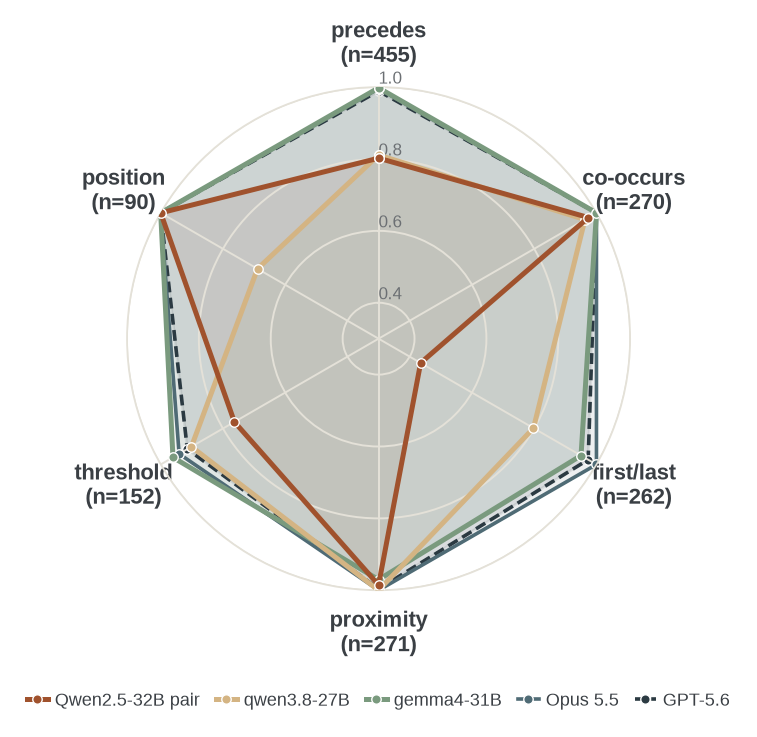
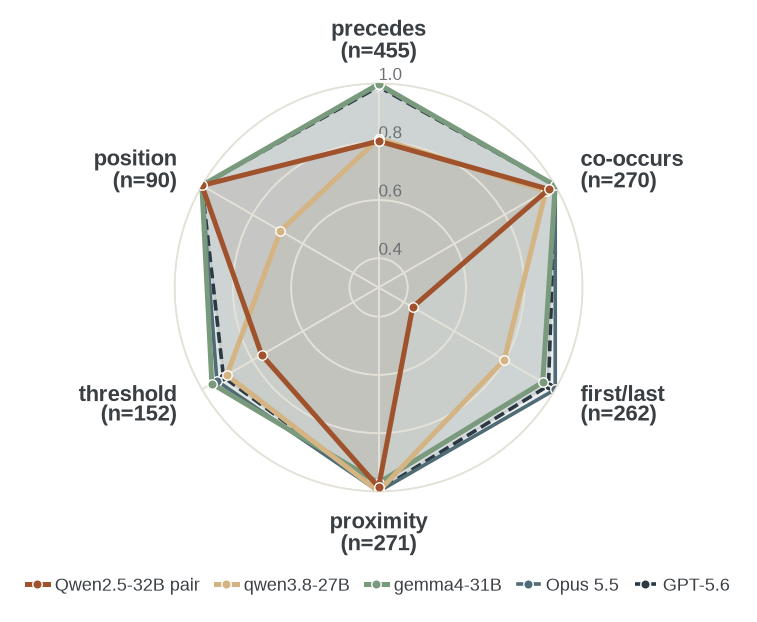
Evidence heatmap to the appendix; family paragraph led by the radar; radar labels outside the ring
The by-family evidence heatmap moves to a new appendix section (app:families)
with its failure-by-failure reading; the main text keeps the radar and the one
evidence finding the verdict hides (gemma4 proximity faithfulness). Radar family
labels are placed by hand outside the outer ring so first/last and threshold no
longer overlap the polygons.

Changed region(s): [[0.0911, 0.0305, 0.9115, 0.8859], [0.0304, 0.9164, 0.9723, 0.9775], [0.4254, 0.4887, 0.4557, 0.5193]]

diff --git a/docs/draft/body.tex b/docs/draft/body.tex
@@ -662,7 +662,7 @@ numbers say how often and how evenly a system reaches the right label; they
 cannot say whether it reached it for the right reason, because a verdict can
 be right on the wrong evidence and wrong on the right evidence. Because every
 stage has gold, four evidence measures are therefore reported with the
-verdict, and they are what Figure~\ref{fig:families} shows. \emph{Plan EM} is exact match on the plan's
+verdict; Appendix~\ref{app:families} breaks them down by claim family. \emph{Plan EM} is exact match on the plan's
 fields. \emph{Evidence F1} is the F1 between the set of reports a system
 placed in an arm's denominator and the gold set, averaged over arms: it
 measures whether the system counted the right reports, whatever it concluded
@@ -780,8 +780,7 @@ answered \emph{insufficient}.}
 \fi
 
 Table~\ref{tab:main} reports every system, the stage ceilings and the
-ablations on the same 1{,}500 claims, and
-Figure~\ref{fig:families} the evidence behind \art{}'s verdicts. The three research
+ablations on the same 1{,}500 claims. The three research
 questions are answered in turn.
 
 \subsection{RQ1: Straight-to-SQL verification and the codebook}
@@ -852,18 +851,6 @@ sizes in parentheses.}
 \label{fig:families-radar}
 \end{figure}
 
-\begin{figure*}[t]
-\centering
-\includegraphics[width=\textwidth]{Figures/families.pdf}
-\caption{The four evidence measures of \art{} on the test set, by claim
-family and model, drawn as error rates so that 0 is perfect in every panel:
-the share of wrongly counted reports ($1-$evidence F1), of right verdicts
-resting on the wrong evidence ($1-$faithfulness), of undecidable claims
-decided (overclaim) and of decidable claims abstained on (underclaim). The
-colour scale is square-root, so small errors remain visible.}
-\label{fig:families}
-\end{figure*}
-
 \paragraph{By claim family.} The families do not fail together
 (Figure~\ref{fig:families-radar}). The 2024 pair's losses sit in two
 families whose rule it cannot carry out: first/last, an argmax over three
@@ -874,18 +861,12 @@ variant whose null is a data-derived rate, gemma4 only on proximity and
 threshold. Threshold is the one family where the frontier models also drop,
 and their planner-alone rows drop by the same amount, so the loss is in
 composing the bar into the plan, not in retrieval. The evidence behind
-these verdicts follows the same map (Figure~\ref{fig:families}): under
-\art{} almost every cell is at or near zero error for gemma4 and the
-frontier models and for most families of the 2026 open models, and overclaim
-stays at a few percent everywhere. The dark cells are the failures that
-remain, and each has a cause the plan exposes: the 2024 pair's
-first/last row, where it retrieves the wrong set and abstains on four claims
-in five rather than decide; qwen3.8's first/last overclaim; gemma4's
-faithfulness on proximity, where a fifth of its right verdicts rest on a
-denominator that admits non-adjacent pairs; and the frontier models'
-threshold underclaim, the H-V5 test-family slip of \S\ref{sec:insufficient}.
-The Straight-to-SQL control on the same families is far lighter: its
-faithfulness falls to 0.06--0.41 on first/last for every open model.
+these verdicts (Appendix~\ref{app:families}) tracks the same map with one
+exception the verdict hides: gemma4 is right on 0.97 of proximity claims, but
+a fifth of those right verdicts rest on a denominator that admits
+non-adjacent pairs. The Straight-to-SQL control is weaker on the same
+families: its faithfulness falls to 0.06--0.41 on first/last for every open
+model.
 
 \begin{figure}[t]
 \centering

diff --git a/scripts/paper_figures.py b/scripts/paper_figures.py
@@ -308,7 +308,7 @@ def fig_family_radar(palette: str = "paper", suffix: str = ""):
     ang_c = np.concatenate([ang, ang[:1]])
     # column-width rendering with the legend on one line below (user 2026-10-21)
     fig, ax = plt.subplots(figsize=(3.4, 3.5), subplot_kw={"projection": "polar"})
-    fig.subplots_adjust(left=0.13, right=0.87, top=0.90, bottom=0.17)
+    fig.subplots_adjust(left=0.20, right=0.80, top=0.88, bottom=0.18)
     lws = [1.8, 1.8, 1.8, 1.3, 1.3]
     for j, (key, label, _) in enumerate(MODELS):
         v = np.concatenate([O[:, j], O[:1, j]])
@@ -316,8 +316,16 @@ def fig_family_radar(palette: str = "paper", suffix: str = ""):
                 label=label, zorder=5 - j, ls=(0, (3, 1.5)) if key == "gpt" else "-")
         ax.fill(ang_c, v, color=cols[j], alpha=0.10, zorder=1)
     ax.set_theta_offset(np.pi / 2); ax.set_theta_direction(-1)
-    ax.set_xticks(ang)
-    ax.set_xticklabels([f"{f[1]}\n(n={n[f[0]]})" for f in FC.FAMS], fontsize=8, fontweight="bold")
+    ax.set_xticks(ang); ax.set_xticklabels([])
+    # family labels placed by hand just outside the outer ring, anchored away from the plot so the side labels
+    # (first/last, threshold) no longer sit on the polygons (user 2026-10-22)
+    for a, f in zip(ang, FC.FAMS):
+        x = np.sin(a)                                 # theta offset pi/2, clockwise: sin > 0 is the right side
+        ha = "left" if x > 0.2 else "right" if x < -0.2 else "center"
+        r = 1.07 if ha == "center" else 1.10
+        va = "bottom" if np.cos(a) > 0.9 else "top" if np.cos(a) < -0.9 else "center"
+        ax.text(a, r, f"{f[1]}\n(n={n[f[0]]})", ha=ha, va=va, fontsize=8, fontweight="bold", color=CHARCOAL,
+                linespacing=1.05, clip_on=False)
     ax.set_ylim(0.3, 1.0); ax.set_yticks([0.4, 0.6, 0.8, 1.0])
     ax.set_yticklabels(["0.4", "0.6", "0.8", "1.0"], fontsize=6, color="#6B6F73")
     ax.set_rlabel_position(0)

diff --git a/docs/draft/appendix.tex b/docs/draft/appendix.tex
@@ -277,6 +277,32 @@ otherwise have read as a finding about the new claim families.
 
 \fi  % end of development-set analyses (app:dev)
 
+\section{Evidence by claim family}
+\label{app:families}
+
+Figure~\ref{fig:families} gives \art{}'s four evidence measures by claim
+family and model, as error rates. Under \art{} almost every cell is at or near
+zero for gemma4 and the frontier models and for most families of the 2026
+open models, and overclaim stays at a few percent everywhere. The dark cells
+are the failures that remain, and each has a cause the plan exposes: the 2024
+pair's first/last row, where it retrieves the wrong set and abstains on four
+claims in five rather than decide; qwen3.8's first/last overclaim; gemma4's
+faithfulness on proximity, where a fifth of its right verdicts rest on a
+denominator that admits non-adjacent pairs; and the frontier models'
+threshold underclaim, the H-V5 test-family slip of \S\ref{sec:insufficient}.
+
+\begin{figure*}[htbp]
+\centering
+\includegraphics[width=\textwidth]{Figures/families.pdf}
+\caption{The four evidence measures of \art{} on the test set, by claim
+family and model, drawn as error rates so that 0 is perfect in every panel:
+the share of wrongly counted reports ($1-$evidence F1), of right verdicts
+resting on the wrong evidence ($1-$faithfulness), of undecidable claims
+decided (overclaim) and of decidable claims abstained on (underclaim). The
+colour scale is square-root, so small errors remain visible.}
+\label{fig:families}
+\end{figure*}
+
 \section{The agentic subsample: every system on the identical 204 claims}
 \label{app:subsample}
 
